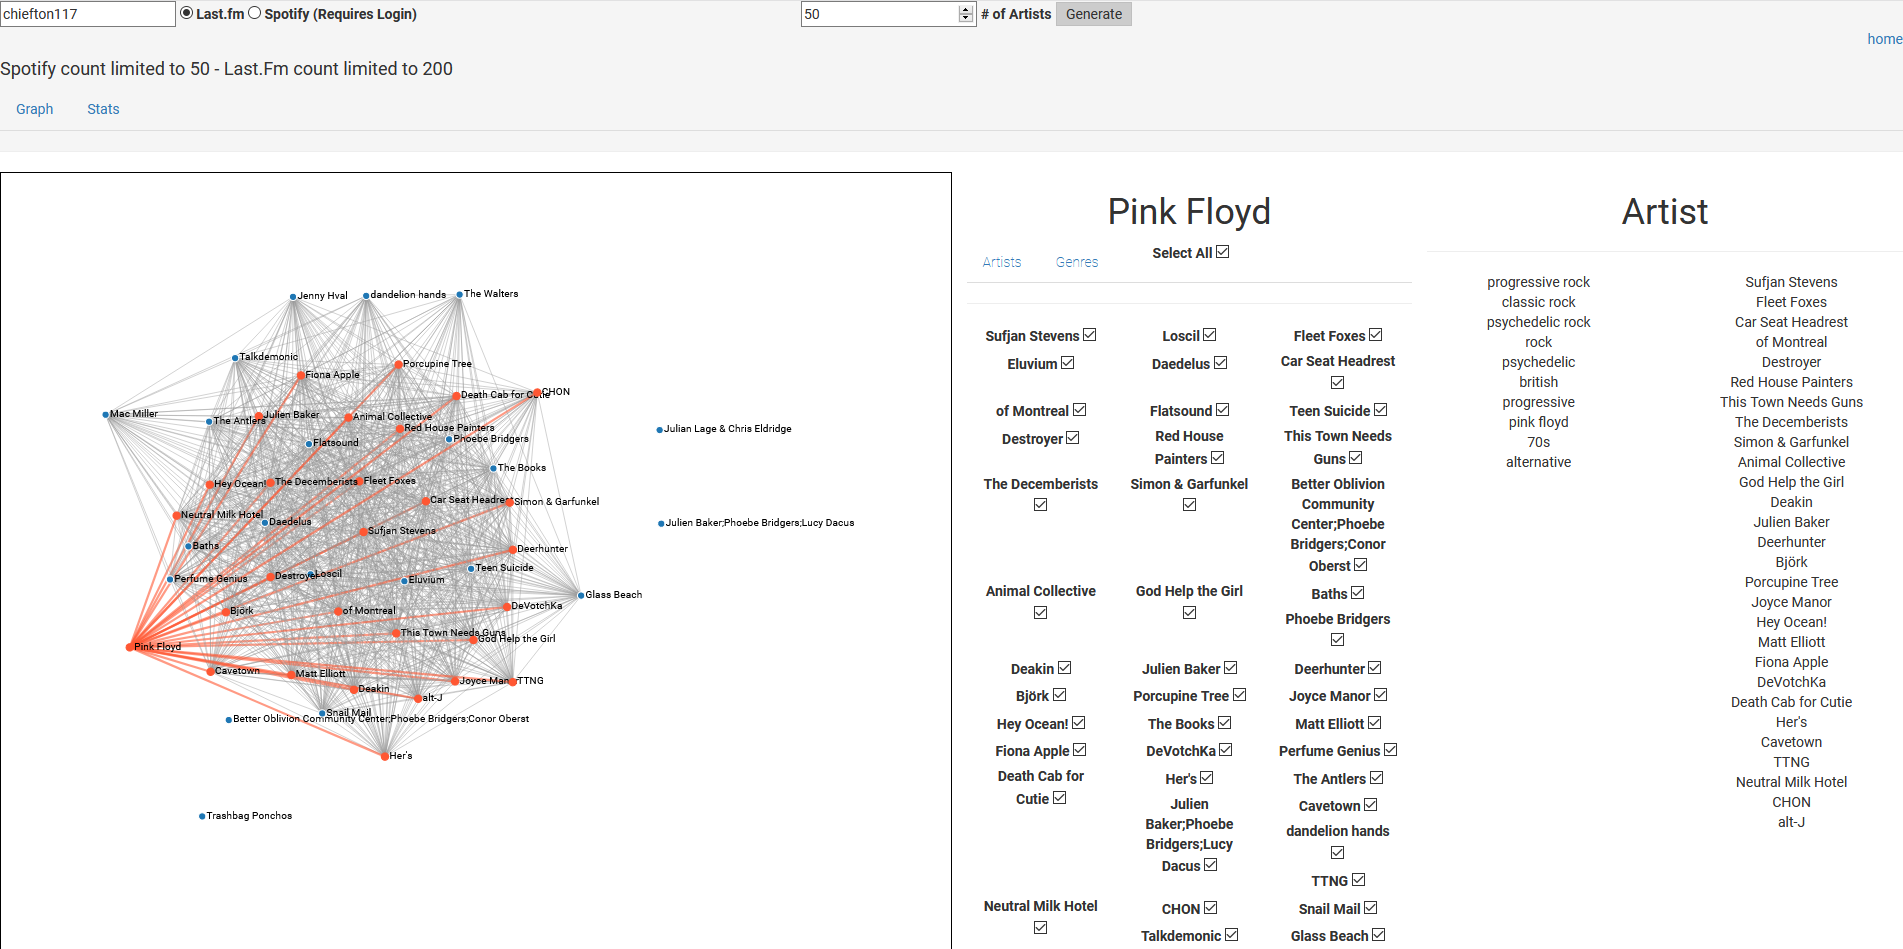
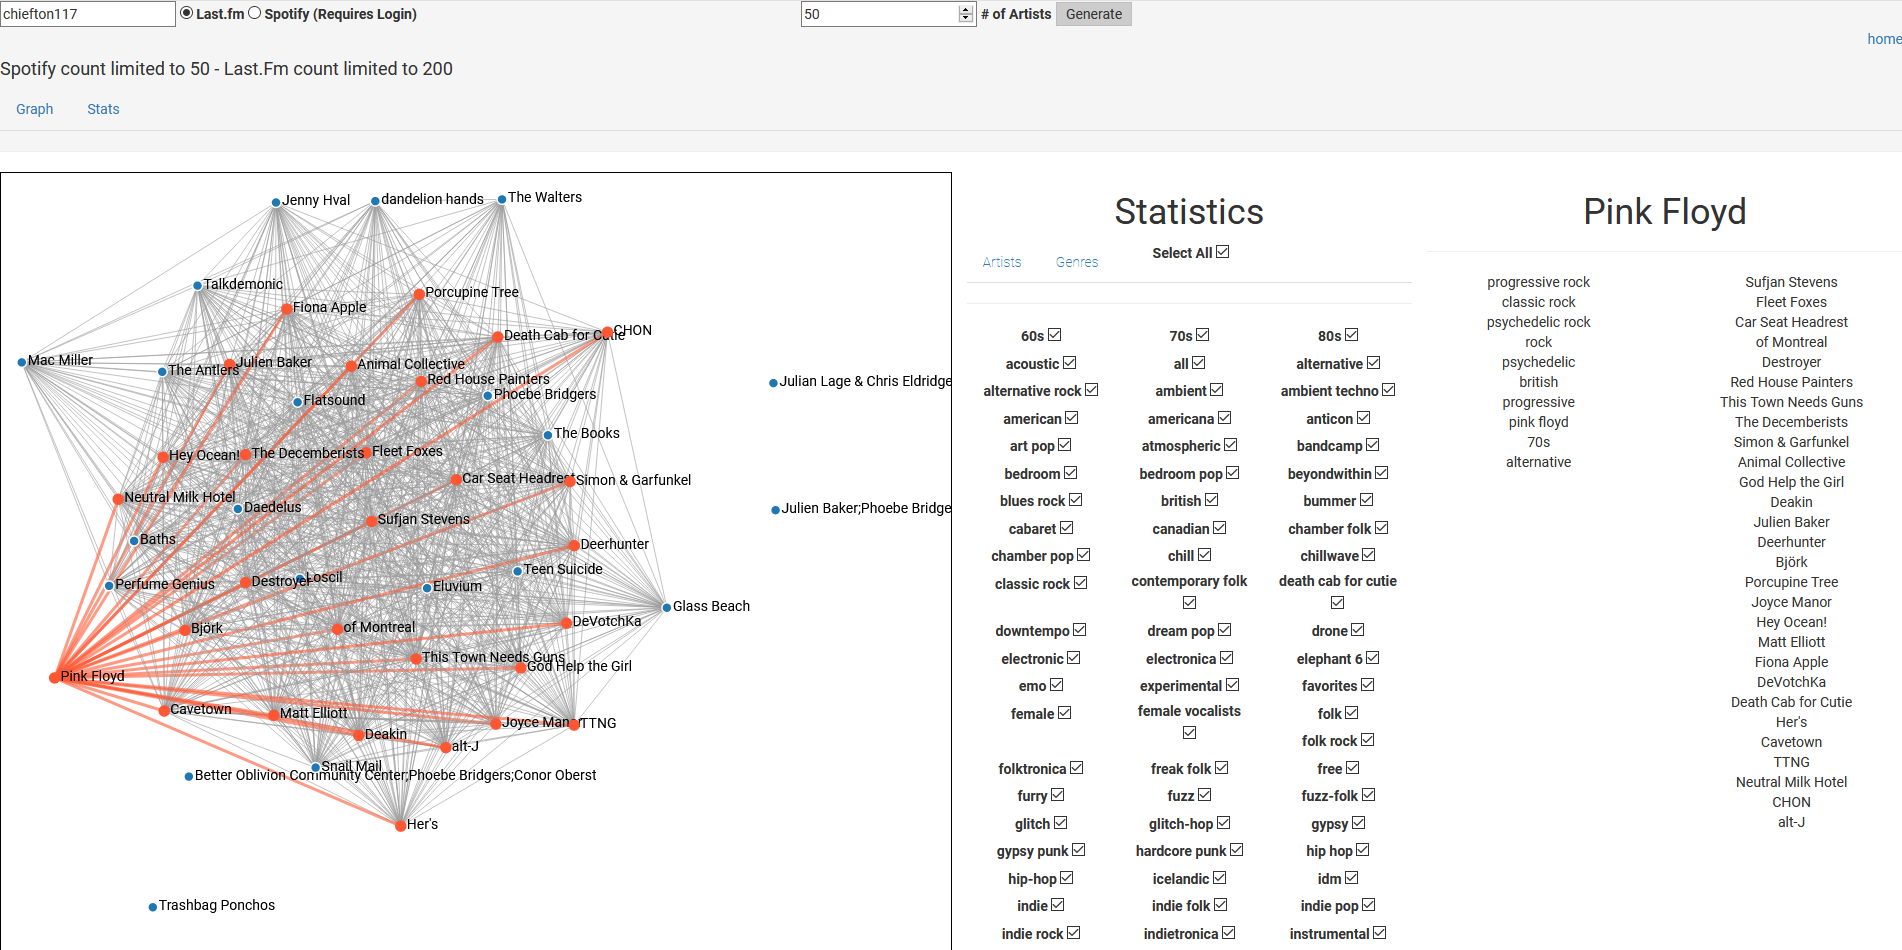
more screenshots

diff --git a/MusicGraph.html b/MusicGraph.html
@@ -124,6 +124,16 @@ label {
 
     <svg id="chart"></svg>
 
+    <div class="overflow-auto" id="sidelist">
+      <h1 id="spotlight">Artist</h1>
+      <hr>
+      <div class="row">
+        <p class="col-md-6" id="taglist"></p>
+        <p class="col-md-6" id= "linklist"></p>
+      </div>
+    </div> 
+
+
     <div class="container-fluid overflow-auto" id="statlist">
       
       <h1 id="spotlight">Statistics</h1>
@@ -152,14 +162,7 @@ label {
 
     </div>
 
-    <div class="overflow-auto" id="sidelist">
-      <h1 id="spotlight">Artist</h1>
-      <hr>
-      <div class="row">
-        <p class="col-md-6" id="taglist"></p>
-        <p class="col-md-6" id= "linklist"></p>
-      </div>
-    </div> 
+
 
   </div>
 </div>

diff --git a/README.md b/README.md
@@ -3,4 +3,6 @@ A d3 generated force-directed graph of any given user's artists, linked by commo
 
 now with spotify integration!
 
-[Screenshot](images/screenshot.png)
+[Screenshot 50 Artists](images/screenshot.png)
+
+[Screenshot 30 Artists](images/screenshot2.png)
